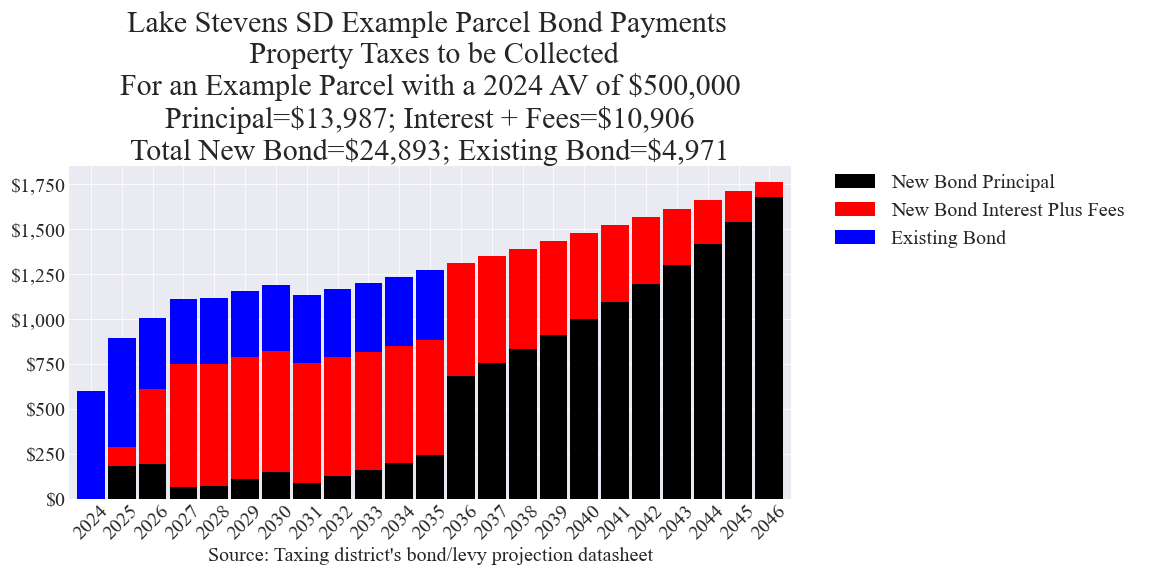
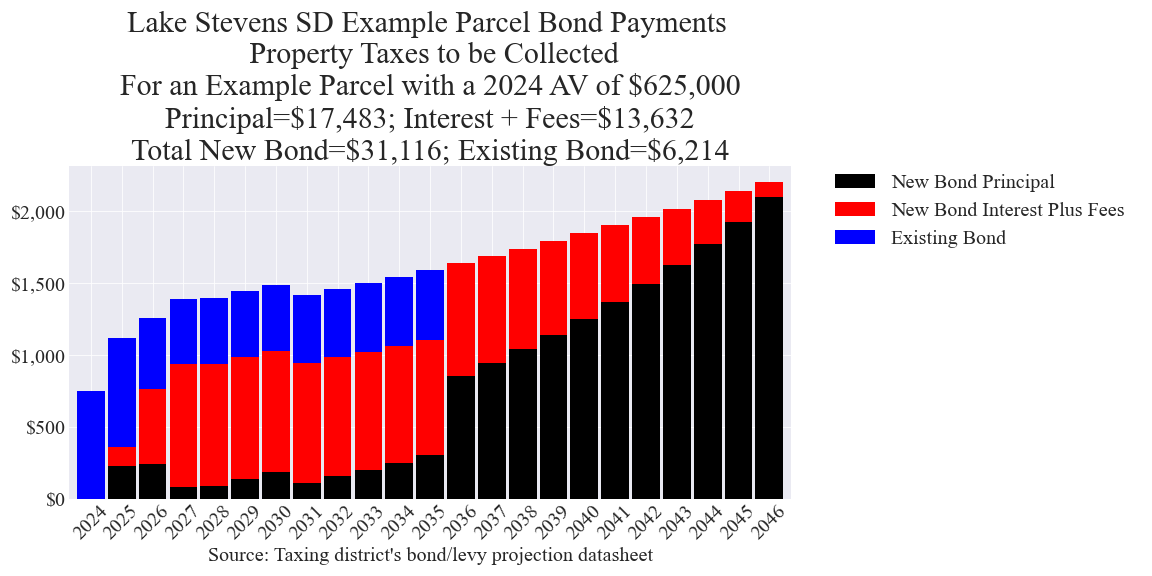
Updated Lake Stevens SD example property

diff --git a/_includes/cost_estimates/20241105/Cheney_20241105_Enhanced.html b/_includes/cost_estimates/20241105/Cheney_20241105_Enhanced.html
@@ -40,25 +40,25 @@
 
 		data.addRows([
 			['2025', 1120200.0, 2116800.0],
-			['2026', 246665.76, 3617334.24],
-			['2027', 259155.369088, 3604844.630912],
-			['2028', 347278.534523495, 3591721.46547651],
-			['2029', 1834903.4540304, 3574096.5459696],
-			['2030', 932381.324686817, 3480618.67531318],
-			['2031', 1042821.03519897, 3433178.96480103],
-			['2032', 1161911.78508347, 3380088.21491653],
-			['2033', 1315072.06119745, 3320927.93880255],
-			['2034', 1463030.97657509, 3253969.02342491],
-			['2035', 1640026.36383885, 3181973.63616115],
-			['2036', 1814691.01810337, 3101308.98189663],
-			['2037', 5918912.89625812, 3012087.10374188],
-			['2038', 6403226.17775111, 2710773.82224889],
-			['2039', 6912739.36905162, 2384260.63094838],
-			['2040', 5795250.70619116, 2031749.29380884],
-			['2041', 6244784.02227857, 1736215.97772143],
-			['2042', 6724279.13853352, 1417720.86146648],
-			['2043', 7233230.69815919, 1074769.30184081],
-			['2044', 7764132.41233838, 705867.587661617],
+			['2026', 246666.0, 3617334.0],
+			['2027', 259155.0, 3604845.0],
+			['2028', 347279.0, 3591721.0],
+			['2029', 1834903.0, 3574097.0],
+			['2030', 932381.0, 3480619.0],
+			['2031', 1042821.0, 3433179.0],
+			['2032', 1161912.0, 3380088.0],
+			['2033', 1315072.0, 3320928.0],
+			['2034', 1463031.0, 3253969.0],
+			['2035', 1640026.0, 3181974.0],
+			['2036', 1814691.0, 3101309.0],
+			['2037', 5918913.0, 3012087.0],
+			['2038', 6403226.0, 2710774.0],
+			['2039', 6912739.0, 2384261.0],
+			['2040', 5795251.0, 2031749.0],
+			['2041', 6244784.0, 1736216.0],
+			['2042', 6724279.0, 1417721.0],
+			['2043', 7233231.0, 1074769.0],
+			['2044', 7764132.0, 705868.0],
 			['2045', 5825307.0, 258693.0],
 
 		]);
@@ -164,7 +164,7 @@
 		data5.addColumn('number', 'Non School');
 
 		data5.addRows([
-			['2024', 10134000, 0, 574000, 0, 0, 0, 9918000, 0, 16440392, 34059422],
+			['2024', 10134000, 0, 574000, 0, 0, 0, 9918000, 0, 16440392, 34059423],
 			['2025', 11210000, 3237000, 740000, 0, 0, 0, 16125000, 0, 0, 0],
 			['2026', 11397000, 3864000, 780000, 0, 0, 0, 17100000, 0, 0, 0],
 			['2027', 11574000, 3864000, 820000, 0, 0, 0, 17950000, 0, 0, 0],
@@ -272,7 +272,7 @@
 		data6.addColumn('number', 'Non School');
 
 		data6.addRows([
-			['2024', 10134000, 0, 574000, 0, 0, 0, 9918000, 0, 16440392, 34059422],
+			['2024', 10134000, 0, 574000, 0, 0, 0, 9918000, 0, 16440392, 34059423],
 			['2025', 11210000, 3237000, 740000, 0, 0, 0, 16125000, 0, 0, 0],
 			['2026', 11397000, 3864000, 780000, 0, 0, 0, 17100000, 0, 0, 0],
 			['2027', 11574000, 3864000, 820000, 0, 0, 0, 17950000, 0, 0, 0],

diff --git a/_includes/cost_estimates/20241105/Sultan_20241105_Enhanced.html b/_includes/cost_estimates/20241105/Sultan_20241105_Enhanced.html
@@ -40,24 +40,24 @@
 
 		data.addRows([
 			['2025', 821000.0, 2188000.0],
-			['2026', 434698.7, 3863301.3],
-			['2027', 1475190.83189, 3842809.16811],
-			['2028', 1681379.98815548, 3771620.01184452],
-			['2029', 1893629.90076306, 3690370.09923694],
-			['2030', 2126199.35405702, 3598800.64594298],
-			['2031', 2374081.05950057, 3495918.94049943],
-			['2032', 2637064.56055739, 3380935.43944261],
-			['2033', 2909870.74181386, 3253129.25818614],
-			['2034', 3205962.63144958, 3112037.36855042],
-			['2035', 3510861.5197948, 2963138.4802052],
-			['2036', 3836043.36498942, 2804956.63501058],
-			['2037', 4189596.64516597, 2618403.35483403],
-			['2038', 4562422.39405142, 2414577.60594858],
-			['2039', 4959451.53503514, 2192548.46496486],
-			['2040', 5376911.97042723, 1951088.02957277],
-			['2041', 5821749.19913512, 1689250.80086488],
-			['2042', 6293366.68508591, 1405633.3149141],
-			['2043', 6793061.61632706, 1098938.38367294],
+			['2026', 434699.0, 3863301.0],
+			['2027', 1475191.0, 3842809.0],
+			['2028', 1681380.0, 3771620.0],
+			['2029', 1893630.0, 3690370.0],
+			['2030', 2126199.0, 3598801.0],
+			['2031', 2374081.0, 3495919.0],
+			['2032', 2637065.0, 3380935.0],
+			['2033', 2909871.0, 3253129.0],
+			['2034', 3205963.0, 3112037.0],
+			['2035', 3510862.0, 2963138.0],
+			['2036', 3836043.0, 2804957.0],
+			['2037', 4189597.0, 2618403.0],
+			['2038', 4562422.0, 2414578.0],
+			['2039', 4959452.0, 2192548.0],
+			['2040', 5376912.0, 1951088.0],
+			['2041', 5821749.0, 1689251.0],
+			['2042', 6293367.0, 1405633.0],
+			['2043', 6793062.0, 1098938.0],
 			['2044', 7322356.0, 768644.0],
 			['2045', 7775101.0, 519899.0],
 

diff --git a/_includes/cost_estimates/20241105/LakeStevensBondTable_20241105.html b/_includes/cost_estimates/20241105/LakeStevensBondTable_20241105.html
@@ -16,7 +16,7 @@ table, th, td {
 	var dataParcel;
 	
 	totalLevyAV = 11224931000;
-	sampleParcelAV = 500000;
+	sampleParcelAV = 625000;
 	sampleParcelAVMin = 100000;
 	sampleParcelAVMax = 2000000;
 	totalLevyCost = 558834000;

diff --git a/_includes/cost_estimates/20241105/LakeStevens_20241105_Enhanced.html b/_includes/cost_estimates/20241105/LakeStevens_20241105_Enhanced.html
@@ -12,7 +12,7 @@
 	var dataParcel;
 	
 	totalBondAV = 11224931000;
-	sampleParcelAV = 500000;
+	sampleParcelAV = 625000;
 	sampleParcelAVMin = 100000;
 	sampleParcelAVMax = 2000000;
 	totalBondPrincipal = 314000000;
